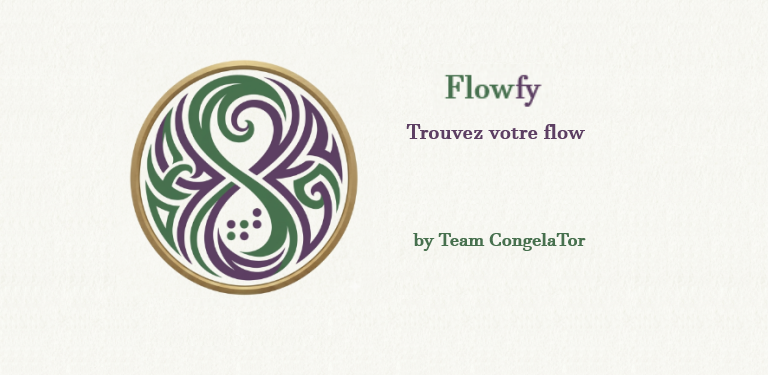
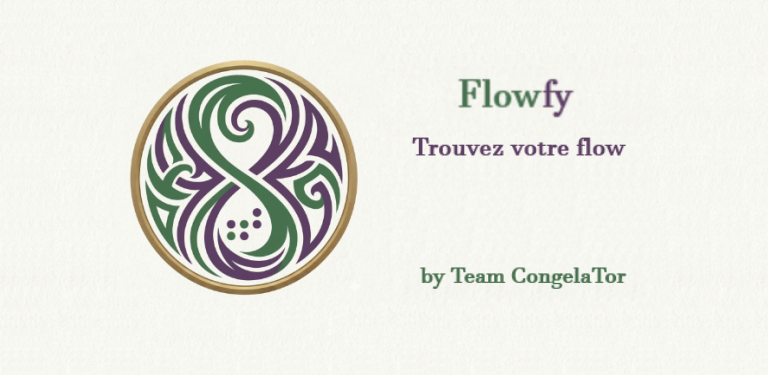
css bannieres

Changed region(s): [[0.5312, 0.176, 0.8125, 0.44], [0.5312, 0.704, 0.8125, 0.792], [0.5312, 0.616, 0.7812, 0.6747]]

diff --git a/flowfy.html b/flowfy.html
@@ -32,12 +32,9 @@
 
   <section class="section">
     <div class="content-card">
-      <img src="img/flowfy/Flowfy_presentation_0x75.png" alt="Présentation Flowfy">
-
+      <img class="app-banner" src="img/flowfy/Flowfy_presentation_0x75.png" alt="Présentation Flowfy">
       <h1>Flowfy</h1>
-
       <p><strong>Flow For You. Trouvez le flow qui vous convient.</strong></p>
-
       <div class="cta-row" style="margin: 24px 0;">
         <a href="#" class="button button-primary">Disponible bientôt sur Google Play</a>
       </div>

diff --git a/alto-gaspi.html b/alto-gaspi.html
@@ -33,10 +33,8 @@
 
   <section class="section">
     <div class="content-card">
-      <img src="img/alto_gaspi/alto_gaspi_presentation_0x75.jpg" alt="Présentation Alt'o Gaspi">
-
+      <img class="app-banner" src="img/alto_gaspi/alto_gaspi_presentation_0x75.png" alt="Présentation Alt'o Gaspi">
       <h1>Alt'o Gaspi</h1>
-
       <p><strong>Gaspi or not gaspi ? À vous de jouer !</strong></p>
 
       <div class="cta-row" style="margin: 24px 0;">

diff --git a/css/style.css b/css/style.css
@@ -135,6 +135,13 @@ img {
   cursor: pointer;
 }
 
+.app-banner {
+  display: block;
+  margin-left: auto;
+  margin-right: auto;
+  border-radius: 28px;
+}
+
 .hero {
   background:
     radial-gradient(circle at 72% 25%, rgba(21, 148, 71, 0.14), transparent 32%),
